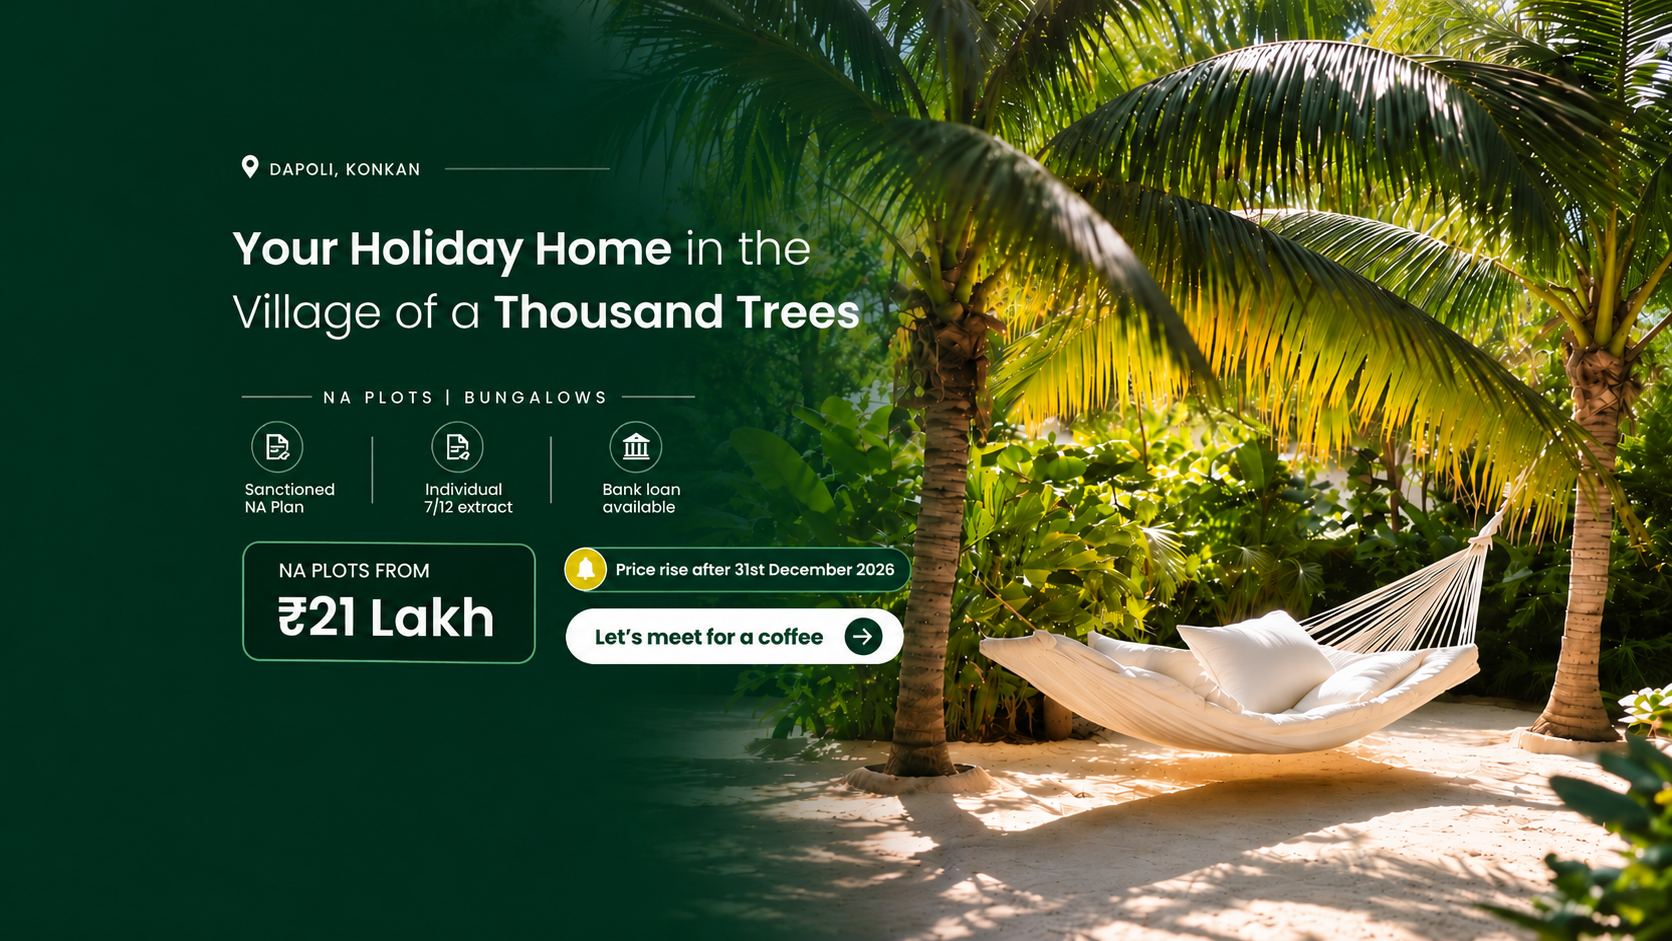
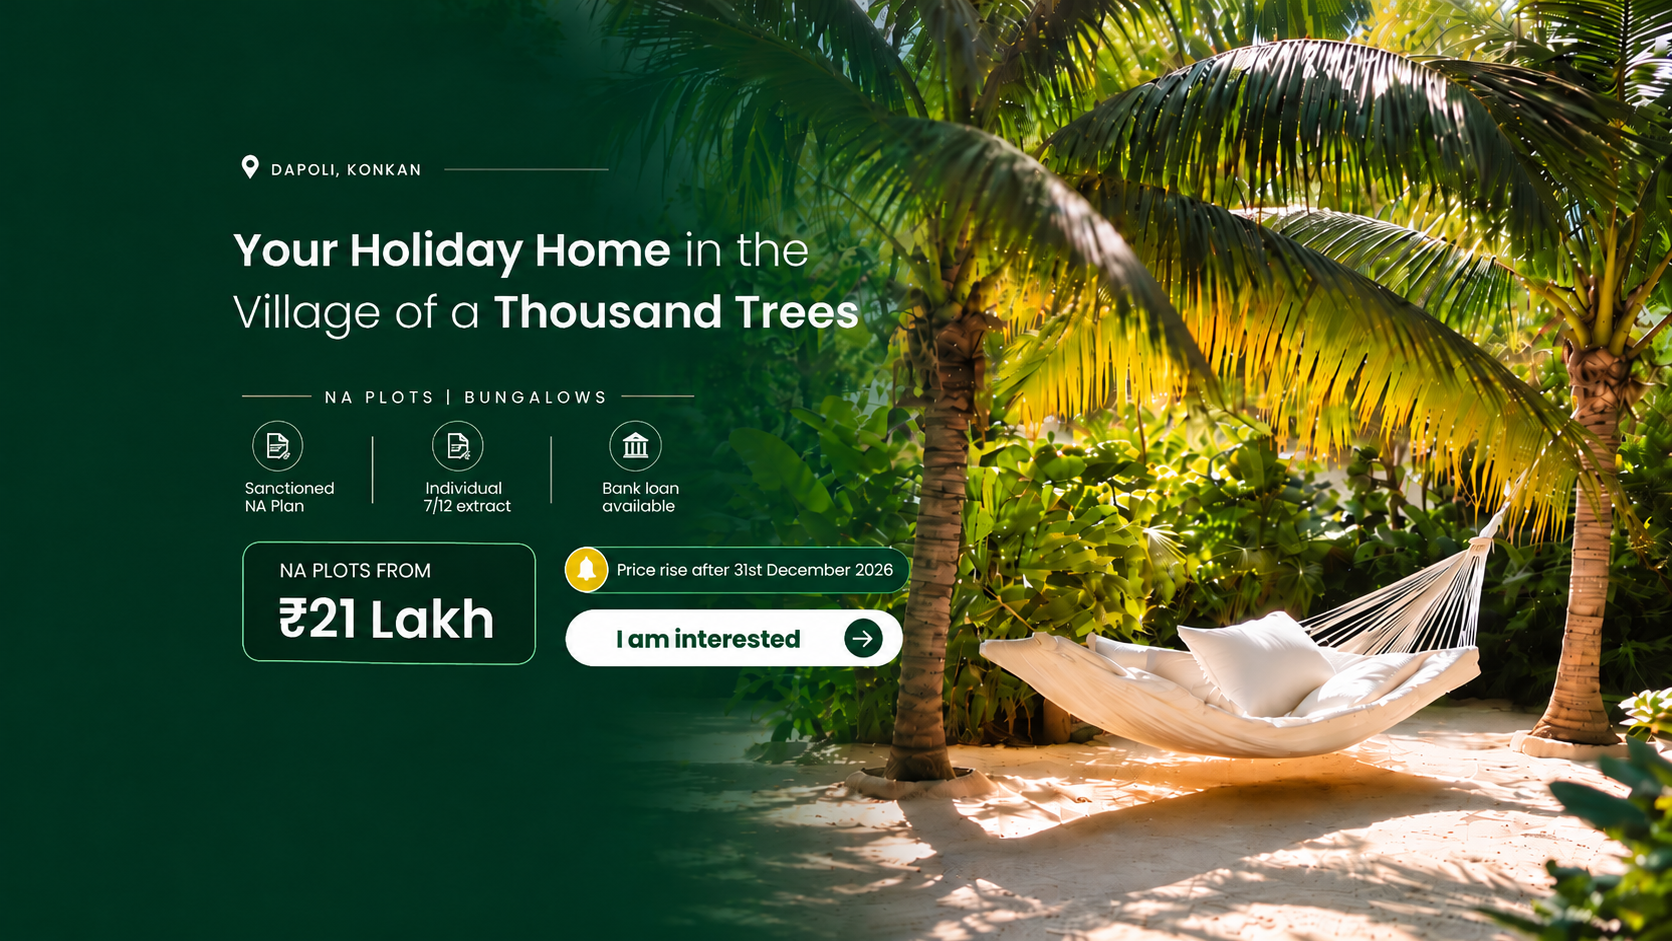
Update 1000 Trees website and thank you page

diff --git a/index.html b/index.html
@@ -230,7 +230,7 @@ src="https://www.facebook.com/tr?id=1879925623449779&ev=PageView&noscript=1"
       <div class="flex items-center gap-3">
        
         <button data-open-modal class="hidden sm:inline-flex bg-terra hover:bg-terralight text-white text-sm font-semibold rounded-full px-5 py-3.5 transition shadow-lg btn-shake">
-          Let's meet for a coffee
+           I am interested
         </button>
         <button id="menuBtn" class="lg:hidden glass rounded-full p-2.5 text-white" aria-label="Menu">
           <svg id="menuIconOpen" class="w-6 h-6" fill="none" stroke="currentColor" stroke-width="2" viewBox="0 0 24 24"><path stroke-linecap="round" d="M3.75 6.75h16.5M3.75 12h16.5m-16.5 5.25h16.5"/></svg>
@@ -252,7 +252,7 @@ src="https://www.facebook.com/tr?id=1879925623449779&ev=PageView&noscript=1"
         <li><a href="#connectivity" class="mobile-link block py-2.5 px-3 rounded-xl hover:bg-white/10">Location</a></li>
         <li><a href="#faq" class="mobile-link block py-2.5 px-3 rounded-xl hover:bg-white/10">FAQ</a></li>
       </ul>
-      <button data-open-modal class="mobile-link mt-4 w-full bg-terra text-white font-semibold rounded-full px-5 py-3">Let's meet for a coffee</button>
+      <button data-open-modal class="mobile-link mt-4 w-full bg-terra text-white font-semibold rounded-full px-5 py-3">I am interested</button>
     </div>
   </header>
 
@@ -302,7 +302,7 @@ src="https://www.facebook.com/tr?id=1879925623449779&ev=PageView&noscript=1"
         </div>
   <div class="reveal flex flex-wrap gap-4 mt-8" style="transition-delay:.4s">
           <button data-open-modal class="bg-terra hover:bg-terralight text-white font-bold rounded-full px-8 py-4 text-base sm:text-lg shadow-xl shadow-terra/40 transition btn-shake">
-           Let's meet for a coffee
+           I'm interested
           </button>
           <button data-open-modal class="glass hover:bg-white/20 text-white font-semibold rounded-full px-8 py-4 text-base sm:text-lg transition">
             Get Plot Pricing
@@ -375,8 +375,8 @@ src="https://www.facebook.com/tr?id=1879925623449779&ev=PageView&noscript=1"
   <!-- ================= OFFER MARQUEE ================= -->
   <div class="bg-terra text-white py-3 overflow-hidden">
     <div class="marquee-track flex whitespace-nowrap gap-10 font-semibold text-sm uppercase tracking-widest w-max">
-      <span>✦ Price rise after 31st Dec 2026</span><span>✦ NA Plots from ₹21 Lakh</span><span>✦ Sanctioned NA Plan</span><span>✦ Individual 7/12 Extract</span><span>✦ Bank Loan Available</span><span>✦ Let's meet for a coffee</span>
-      <span>✦ Price rise after 31st Dec 2026</span><span>✦ NA Plots from ₹21 Lakh</span><span>✦ Sanctioned NA Plan</span><span>✦ Individual 7/12 Extract</span><span>✦ Bank Loan Available</span><span>✦ Let's meet for a coffee</span>
+      <span>✦ Price rise after 31st Dec 2026</span><span>✦ NA Plots from ₹21 Lakh</span><span>✦ Sanctioned NA Plan</span><span>✦ Individual 7/12 Extract</span><span>✦ Bank Loan Available</span><span>✦ I am interested</span>
+      <span>✦ Price rise after 31st Dec 2026</span><span>✦ NA Plots from ₹21 Lakh</span><span>✦ Sanctioned NA Plan</span><span>✦ Individual 7/12 Extract</span><span>✦ Bank Loan Available</span><span>✦ I am interested</span>
     </div>
   </div>
 
@@ -466,7 +466,7 @@ src="https://www.facebook.com/tr?id=1879925623449779&ev=PageView&noscript=1"
         </div>
 
         <button data-open-modal class="reveal mt-9 bg-forest hover:bg-moss text-white font-bold rounded-full px-8 py-4 transition shadow-xl shadow-forest/30 btn-shake w-full sm:w-auto" style="transition-delay:.5s">
-          Let's meet for a coffee
+          I am interested
         </button>
       </div>
     </div>
@@ -1025,7 +1025,7 @@ src="https://www.facebook.com/tr?id=1879925623449779&ev=PageView&noscript=1"
           <li class="flex gap-3"><svg class="w-5 h-5 shrink-0 text-white mt-0.5" fill="none" stroke="currentColor" stroke-width="2.5" viewBox="0 0 24 24"><path stroke-linecap="round" stroke-linejoin="round" d="M5 13l4 4L19 7"/></svg>Water connection to every plot</li>
         </ul>
 
-        <button data-open-modal class="reveal mt-9 w-full sm:w-auto bg-white text-forest hover:bg-moss hover:text-white font-bold rounded-full px-8 py-4 transition btn-shake" style="transition-delay:.3s">Let's meet for a coffee</button>
+        <button data-open-modal class="reveal mt-9 w-full sm:w-auto bg-white text-forest hover:bg-moss hover:text-white font-bold rounded-full px-8 py-4 transition btn-shake" style="transition-delay:.3s">I am interested</button>
       </div>
 
       <!-- Slider -->
@@ -1130,7 +1130,7 @@ src="https://www.facebook.com/tr?id=1879925623449779&ev=PageView&noscript=1"
           <li class="flex gap-3"><svg class="w-5 h-5 shrink-0 text-moss mt-0.5" fill="none" stroke="currentColor" stroke-width="2.5" viewBox="0 0 24 24"><path stroke-linecap="round" stroke-linejoin="round" d="M5 13l4 4L19 7"/></svg>Onsite team looks after your plot and plantation</li>
         </ul>
 
-        <button data-open-modal class="reveal mt-9 w-full sm:w-auto bg-forest hover:bg-moss text-white font-bold rounded-full px-8 py-4 transition shadow-xl shadow-forest/30 btn-shake" style="transition-delay:.3s">Let's meet for a coffee</button>
+        <button data-open-modal class="reveal mt-9 w-full sm:w-auto bg-forest hover:bg-moss text-white font-bold rounded-full px-8 py-4 transition shadow-xl shadow-forest/30 btn-shake" style="transition-delay:.3s">I am interested</button>
       </div>
     </div>
   </section>
@@ -1396,7 +1396,7 @@ src="https://www.facebook.com/tr?id=1879925623449779&ev=PageView&noscript=1"
 
 
        <div class="text-center mt-10">
-        <button data-open-modal class="reveal bg-terra hover:bg-terralight text-white font-bold rounded-full px-8 py-4 transition shadow-xl btn-shake">Let's meet for a coffee</button>
+        <button data-open-modal class="reveal bg-terra hover:bg-terralight text-white font-bold rounded-full px-8 py-4 transition shadow-xl btn-shake">I am interested</button>
       </div>
 
 
@@ -1490,7 +1490,7 @@ src="https://www.facebook.com/tr?id=1879925623449779&ev=PageView&noscript=1"
       </div>
 
      <button data-open-modal class="bg-terra mt-6 mx-auto block hover:bg-terralight text-white font-bold rounded-full px-8 py-4 transition shadow-xl shadow-terra/30 btn-shake">
- Let's meet for a coffee
+ I am interested
 </button>
 
     </div>
@@ -1618,7 +1618,7 @@ src="https://www.facebook.com/tr?id=1879925623449779&ev=PageView&noscript=1"
                transition shadow-xl
                shadow-terra/30 btn-shake">
 
-        Let's meet for a coffee
+        I am interested
 
       </button>
 
@@ -1823,7 +1823,7 @@ src="https://www.facebook.com/tr?id=1879925623449779&ev=PageView&noscript=1"
         <!-- Enquiry form -->
         <div>
           <div id="footerFormWrap" class="glass-dark rounded-[2rem] p-7 sm:p-8">
-            <h3 class="font-display text-2xl font-bold text-white">Let's meet for a coffee</h3>
+            <h3 class="font-display text-2xl font-bold text-white">I am interested</h3>
             <p class="text-white/70 text-sm mt-2">NA Plots from ₹21 Lakh · Price rise after 31st Dec 2026</p>
             <form id="footerForm" class="mt-6 space-y-4">
               <input type="text" name="name" required autocomplete="name" placeholder="Full Name"
@@ -1847,12 +1847,12 @@ src="https://www.facebook.com/tr?id=1879925623449779&ev=PageView&noscript=1"
               <select name="interested" required
                       class="w-full glass rounded-2xl px-5 py-3.5 text-white focus:bg-white/15 transition [&>option]:text-forest">
                 <option value="" disabled selected>I am interested in…</option>
-                <option>Holiday / Retirement Home</option>
-                <option>NA Plot Investment</option>
-                <option>Plot + Bungalow</option>
+                <!-- <option>Holiday / Retirement Home</option> -->
+                <option>NA Plot</option>
+                <option>Bungalow</option>
               </select>
               <button type="submit" class="w-full bg-terra hover:bg-terralight text-white font-bold rounded-full py-4 transition shadow-lg shadow-black/25 btn-shake">
-                Request Callback
+                Please call back
               </button>
              
             </form>
@@ -1920,7 +1920,7 @@ src="https://www.facebook.com/tr?id=1879925623449779&ev=PageView&noscript=1"
   class="mobile-link mt-4 w-full bg-terra hover:bg-terralight
          text-white font-semibold rounded-none 
          px-5 py-3 transition">
-Let's meet for a coffee
+I am interested
 </button>
     </div>
   </div>
@@ -1936,7 +1936,7 @@ Let's meet for a coffee
       </button>
 
       <div id="modalForm">
-        <h3 class="font-display text-2xl sm:text-3xl font-bold text-white">Let's meet for a coffee</h3>
+        <h3 class="font-display text-2xl sm:text-3xl font-bold text-white">I am interested</h3>
         <p class="text-white/70 text-sm mt-2">NA Plots from ₹21 Lakh · Price rise after 31st Dec 2026</p>
         <form id="leadForm" class="mt-6 space-y-4">
           <input type="text" name="name" required autocomplete="name" placeholder="Full Name"
@@ -1960,12 +1960,12 @@ Let's meet for a coffee
           <select name="interested" required
                   class="w-full glass rounded-2xl px-5 py-3.5 text-white focus:bg-white/15 transition [&>option]:text-forest">
             <option value="" disabled selected>I am interested in…</option>
-            <option>Holiday / Retirement Home</option>
-            <option>NA Plot Investment</option>
-            <option>Plot + Bungalow</option>
+            <!-- <option>Holiday / Retirement Home</option> -->
+            <option>NA Plot</option>
+            <option>Bungalow</option>
           </select>
           <button type="submit" class="w-full bg-terra hover:bg-terralight text-white font-bold rounded-full py-4 transition shadow-lg shadow-black/25">
-            Request Callback
+            Please call back
           </button>
           
         </form>

diff --git a/thank-you.html b/thank-you.html
@@ -131,7 +131,7 @@ src="https://www.facebook.com/tr?id=1879925623449779&ev=PageView&noscript=1"
         <h1 class="font-display text-3xl sm:text-4xl lg:text-5xl font-bold mt-8 leading-tight">Thank You!</h1>
         <p class="text-forest/70 text-base sm:text-lg mt-4 max-w-xl mx-auto">
           You're one step closer to your dream of owning a holiday home in Dapoli!<br><br>
-          We'll soon meet over a cup of coffee to discuss how we can turn your dream into reality at 1000 Trees Holiday Homes, Dapoli. ☕🏡
+          <strong class="font-bold text-forest">Let's meet over a cup of Coffee</strong> to discuss how we can turn your dream into reality at 1000 Trees Holiday Homes, Dapoli. ☕🏡
         </p>
 
      
